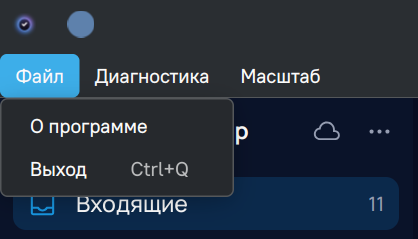
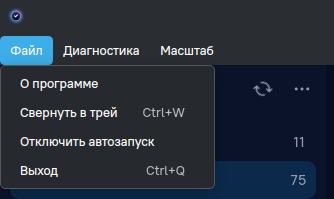
On/off autostart
Enable/disable autostart via XDG autostart spec:
- ~/.config/autostart/singularity-shell.desktop with --start-hidden
- System file /etc/xdg/autostart/singularity-shell.desktop supported
  (user override with Hidden=true to disable, deletion to enable)
- Toggle in File menu and tray context menu, label updates dynamically
- Desktop file embedded in Qt resources

Based on implementation in Morgalka.

diff --git a/singularity-shell/i18n/singularity-shell_ru.ts b/singularity-shell/i18n/singularity-shell_ru.ts
@@ -4,55 +4,54 @@
 <context>
     <name>MainWindow</name>
     <message>
-        <location filename="../src/MainWindow.cpp" line="37"/>
-        <location filename="../src/MainWindow.cpp" line="276"/>
+        <location filename="../src/MainWindow.cpp" line="44"/>
+        <location filename="../src/MainWindow.cpp" line="300"/>
         <source>Singularity</source>
         <translation>Singularity</translation>
     </message>
     <message>
-        <location filename="../src/MainWindow.cpp" line="183"/>
+        <location filename="../src/MainWindow.cpp" line="207"/>
         <source>Downloading Singularity…</source>
         <translation>Загрузка Singularity…</translation>
     </message>
     <message>
-        <location filename="../src/MainWindow.cpp" line="185"/>
+        <location filename="../src/MainWindow.cpp" line="209"/>
         <source>The application assets were not found on this system. They are being downloaded from the official Snap Store right now (one-time, ~43 MB extracted). Next launches will work fully offline.</source>
         <translation>Ресурсы приложения не найдены в системе. Они загружаются из официального Snap Store (однократно, ~43 МБ после распаковки). Последующие запуски будут работать полностью автономно.</translation>
     </message>
     <message>
-        <location filename="../src/MainWindow.cpp" line="190"/>
+        <location filename="../src/MainWindow.cpp" line="214"/>
         <source>Connecting…</source>
         <translation>Подключение…</translation>
     </message>
     <message>
-        <location filename="../src/MainWindow.cpp" line="93"/>
+        <location filename="../src/MainWindow.cpp" line="101"/>
         <source>&amp;File</source>
         <translation>&amp;Файл</translation>
     </message>
     <message>
-        <location filename="../src/MainWindow.cpp" line="96"/>
+        <location filename="../src/MainWindow.cpp" line="104"/>
         <source>&amp;Hide to tray</source>
         <translation>&amp;Свернуть в трей</translation>
     </message>
     <message>
-        <location filename="../src/MainWindow.cpp" line="94"/>
-        <location filename="../src/MainWindow.cpp" line="293"/>
+        <location filename="../src/MainWindow.cpp" line="102"/>
+        <location filename="../src/MainWindow.cpp" line="317"/>
         <source>&amp;About</source>
         <translation>&amp;О программе</translation>
     </message>
     <message>
-        <location filename="../src/MainWindow.cpp" line="101"/>
-        <location filename="../src/MainWindow.cpp" line="295"/>
+        <location filename="../src/MainWindow.cpp" line="115"/>
         <source>&amp;Quit</source>
         <translation>&amp;Выход</translation>
     </message>
     <message>
-        <location filename="../src/MainWindow.cpp" line="122"/>
+        <location filename="../src/MainWindow.cpp" line="136"/>
         <source>Clear profile data…</source>
         <translation>Очистить данные профиля…</translation>
     </message>
     <message>
-        <location filename="../src/MainWindow.cpp" line="123"/>
+        <location filename="../src/MainWindow.cpp" line="137"/>
         <source>Clear profile</source>
         <translation>Очистка профиля</translation>
     </message>
@@ -65,47 +64,47 @@ The application will restart with a fresh profile.</source>
 Приложение перезапустится с чистым профилем.</translation>
     </message>
     <message>
-        <location filename="../src/MainWindow.cpp" line="217"/>
+        <location filename="../src/MainWindow.cpp" line="241"/>
         <source>About Singularity shell</source>
         <translation>О программе Singularity shell</translation>
     </message>
     <message>
-        <location filename="../src/MainWindow.cpp" line="218"/>
+        <location filename="../src/MainWindow.cpp" line="242"/>
         <source>&lt;b&gt;Singularity shell&lt;/b&gt; %1&lt;br/&gt;Asset version: %2&lt;br/&gt;Data dir: %3&lt;br/&gt;&lt;br/&gt;Source code: &lt;a href=&apos;https://github.com/mikhailnov/singularity-shell&apos;&gt;github.com/mikhailnov/singularity-shell&lt;/a&gt;&lt;br/&gt;Contact: GitHub issues or &lt;a href=&apos;mailto:m@mikhailnov.ru&apos;&gt;m@mikhailnov.ru&lt;/a&gt;&lt;br/&gt;&lt;br/&gt;Unofficial QtWebEngine wrapper. SingularityApp itself is proprietary software by its vendor.</source>
         <translation>&lt;b&gt;Singularity shell&lt;/b&gt; %1&lt;br/&gt;Версия ресурсов: %2&lt;br/&gt;Папка данных: %3&lt;br/&gt;&lt;br/&gt;Исходный код: &lt;a href=&apos;https://github.com/mikhailnov/singularity-shell&apos;&gt;github.com/mikhailnov/singularity-shell&lt;/a&gt;&lt;br/&gt;Связь: issues на GitHub или &lt;a href=&apos;mailto:m@mikhailnov.ru&apos;&gt;m@mikhailnov.ru&lt;/a&gt;&lt;br/&gt;&lt;br/&gt;Неофициальная оболочка на QtWebEngine. Само приложение SingularityApp является проприетарным ПО его разработчика.</translation>
     </message>
     <message>
-        <location filename="../src/MainWindow.cpp" line="228"/>
+        <location filename="../src/MainWindow.cpp" line="252"/>
         <source>none (bootstrap)</source>
         <translation>нет (загрузка)</translation>
     </message>
     <message>
-        <location filename="../src/MainWindow.cpp" line="291"/>
+        <location filename="../src/MainWindow.cpp" line="315"/>
         <source>&amp;Show</source>
         <translation>&amp;Показать</translation>
     </message>
     <message>
-        <location filename="../src/MainWindow.cpp" line="291"/>
+        <location filename="../src/MainWindow.cpp" line="315"/>
         <source>&amp;Hide</source>
         <translation>&amp;Скрыть</translation>
     </message>
     <message>
-        <location filename="../src/MainWindow.cpp" line="108"/>
+        <location filename="../src/MainWindow.cpp" line="121"/>
         <source>&amp;Diagnostics</source>
         <translation>&amp;Диагностика</translation>
     </message>
     <message>
-        <location filename="../src/MainWindow.cpp" line="112"/>
+        <location filename="../src/MainWindow.cpp" line="125"/>
         <source>&amp;Developer tools</source>
         <translation>&amp;Инструменты разработчика</translation>
     </message>
     <message>
-        <location filename="../src/MainWindow.cpp" line="109"/>
+        <location filename="../src/MainWindow.cpp" line="122"/>
         <source>Force reload</source>
         <translation>Перезагрузить</translation>
     </message>
     <message>
-        <location filename="../src/MainWindow.cpp" line="124"/>
+        <location filename="../src/MainWindow.cpp" line="138"/>
         <source>This will delete all local data: cookies, session, IndexedDB, service workers, settings.
 Downloaded assets will also be removed and re-downloaded from the Snap Store on next launch.
 
@@ -116,52 +115,69 @@ The application will restart with a fresh profile.</source>
 Приложение перезапустится с чистым профилем.</translation>
     </message>
     <message>
-        <location filename="../src/MainWindow.cpp" line="138"/>
+        <location filename="../src/MainWindow.cpp" line="154"/>
         <source>&amp;Zoom</source>
         <translation>&amp;Масштаб</translation>
     </message>
     <message>
-        <location filename="../src/MainWindow.cpp" line="139"/>
+        <location filename="../src/MainWindow.cpp" line="155"/>
         <source>100 %</source>
         <translation>100 %</translation>
     </message>
     <message>
-        <location filename="../src/MainWindow.cpp" line="145"/>
+        <location filename="../src/MainWindow.cpp" line="161"/>
         <source>Zoom &amp;In</source>
         <translation>Увеличить</translation>
     </message>
     <message>
-        <location filename="../src/MainWindow.cpp" line="146"/>
+        <location filename="../src/MainWindow.cpp" line="162"/>
         <source>Zoom &amp;Out</source>
         <translation>Уменьшить</translation>
     </message>
     <message>
-        <location filename="../src/MainWindow.cpp" line="147"/>
+        <location filename="../src/MainWindow.cpp" line="163"/>
         <source>&amp;Reset</source>
         <translation>&amp;Сбросить</translation>
     </message>
     <message>
-        <location filename="../src/main.cpp" line="257"/>
+        <location filename="../src/MainWindow.cpp" line="323"/>
+        <location filename="../src/MainWindow.cpp" line="422"/>
+        <source>Disable autostart</source>
+        <translation>Отключить автозапуск</translation>
+    </message>
+    <message>
+        <location filename="../src/MainWindow.cpp" line="422"/>
+        <source>Enable autostart</source>
+        <translation>Включить автозапуск</translation>
+    </message>
+    <message>
+        <location filename="../src/MainWindow.cpp" line="323"/>
+        <location filename="../src/MainWindow.cpp" line="422"/>
+        <source>Enable autostart</source>
+        <translation type="unfinished"></translation>
+    </message>
+    <message>
+        <location filename="../src/main.cpp" line="271"/>
         <source>Downloading update %1…</source>
         <translation>Загрузка обновления %1…</translation>
     </message>
     <message>
-        <location filename="../src/main.cpp" line="258"/>
+        <location filename="../src/main.cpp" line="272"/>
         <source>Verifying update %1…</source>
         <translation>Проверка обновления %1…</translation>
     </message>
     <message>
-        <location filename="../src/main.cpp" line="259"/>
+        <location filename="../src/main.cpp" line="273"/>
         <source>Update %1 ready — active on next start</source>
         <translation>Обновление %1 готово — применится при следующем запуске</translation>
     </message>
     <message>
-        <location filename="../src/main.cpp" line="268"/>
+        <location filename="../src/main.cpp" line="282"/>
         <source>Downloading update… %1%</source>
         <translation>Загрузка обновления… %1%</translation>
     </message>
     <message>
-        <location filename="../src/main.cpp" line="276"/>
+        <location filename="../src/main.cpp" line="290"/>
         <source>Version %1 installed — starting…</source>
         <translation>Версия %1 установлена — запуск…</translation>
     </message>

diff --git a/singularity-shell/src/MainWindow.cpp b/singularity-shell/src/MainWindow.cpp
@@ -13,6 +13,9 @@
 #include <QColor>
 #include <QDesktopServices>
 #include <QJsonDocument>
+#include <QDir>
+#include <QFile>
+
 #include <QKeyEvent>
 #include <QLabel>
 #include <QProcess>
@@ -103,6 +106,12 @@ void MainWindow::buildMenus()
         suspendWebEngine();
     });
     hideAction->setShortcut(QKeySequence(QStringLiteral("Ctrl+W")));
+    m_autostartAction = appMenu->addAction(QString(), this, [this] {
+        setAutostart(!isAutostartEnabled());
+    });
+    connect(appMenu, &QMenu::aboutToShow, this, [this] {
+        updateAutostartAction();
+    });
     m_quitAction = appMenu->addAction(tr("&Quit"), this, [this] {
         if (m_tray)
             m_tray->hide();
@@ -307,6 +316,13 @@ void MainWindow::setupTray()
         showAction->setText(isVisible() ? tr("&Hide") : tr("&Show"));
     });
     menu->addAction(tr("&About"), this, &MainWindow::showAbout);
+    QAction* trayAutostart = menu->addAction(QString(), this, [this] {
+        setAutostart(!isAutostartEnabled());
+    });
+    connect(menu, &QMenu::aboutToShow, this, [this, trayAutostart] {
+        trayAutostart->setText(isAutostartEnabled()
+            ? tr("Disable autostart") : tr("Enable autostart"));
+    });
     menu->addSeparator();
     menu->addAction(tr("&Quit"), qApp, &QApplication::quit);
     m_tray->setContextMenu(menu);
@@ -356,4 +372,55 @@ void MainWindow::resumeWebEngine()
 #if QT_VERSION >= QT_VERSION_CHECK(6, 4, 0)
     m_page->setLifecycleState(QWebEnginePage::LifecycleState::Active);
 #endif
+}
+
+// --- Autostart (XDG autostart spec) ------------------------------------------
+
+bool MainWindow::isAutostartEnabled() const
+{
+    const QString userFile = QStandardPaths::writableLocation(
+        QStandardPaths::ConfigLocation) + QStringLiteral("/autostart/singularity-shell.desktop");
+    const QString systemFile = QStringLiteral(SINGULARITY_SHELL_SYSTEM_AUTOSTART);
+
+    if (QFile::exists(userFile)) {
+        QFile f(userFile);
+        if (f.open(QIODevice::ReadOnly | QIODevice::Text))
+            return !f.readAll().contains("Hidden=true");
+        return true;  // can't read — assume enabled
+    }
+    return QFile::exists(systemFile);
+}
+
+void MainWindow::setAutostart(bool enable)
+{
+    const QString autostartDir = QStandardPaths::writableLocation(
+        QStandardPaths::ConfigLocation) + QStringLiteral("/autostart");
+    const QString userFile = autostartDir + QStringLiteral("/singularity-shell.desktop");
+    const QString systemFile = QStringLiteral(SINGULARITY_SHELL_SYSTEM_AUTOSTART);
+
+    QDir().mkpath(autostartDir);
+
+    if (enable) {
+        if (QFile::exists(systemFile)) {
+            QFile::remove(userFile);  // let system file take over
+        } else {
+            QFile::remove(userFile);
+            QFile::copy(QStringLiteral(":/autostart.desktop"), userFile);
+        }
+    } else {
+        QFile::remove(userFile);
+        if (QFile::exists(systemFile)) {
+            QFile f(userFile);
+            if (f.open(QIODevice::WriteOnly | QIODevice::Text | QIODevice::Truncate))
+                f.write("[Desktop Entry]\nHidden=true\n");
+        }
+    }
+}
+
+void MainWindow::updateAutostartAction()
+{
+    if (m_autostartAction) {
+        m_autostartAction->setText(isAutostartEnabled()
+            ? tr("Disable autostart") : tr("Enable autostart"));
+    }
 }

diff --git a/singularity-shell/src/MainWindow.h b/singularity-shell/src/MainWindow.h
@@ -42,6 +42,9 @@ private:
     void setupTray();
     void suspendWebEngine();
     void resumeWebEngine();
+    bool isAutostartEnabled() const;
+    void setAutostart(bool enable);
+    void updateAutostartAction();
 
     QWebEngineView* m_view = nullptr;
     NavigationPage* m_page = nullptr;
@@ -50,6 +53,7 @@ private:
     QLabel* m_updateStatus = nullptr;
     QSystemTrayIcon* m_tray = nullptr;
     QAction* m_quitAction = nullptr;
+    QAction* m_autostartAction = nullptr;
     bool m_startHidden = false;
     QString m_assetVersion;
 };

diff --git a/README.en.md b/README.en.md
@@ -24,6 +24,11 @@ When hidden to tray, JavaScript execution is frozen — **~0% CPU** load, instan
 
 ![tray](docs/img-ru/tray.png)
 
+You can enable **autostart** — the app will launch frozen in the tray, ready
+to use instantly with a click on the tray icon, without consuming CPU.
+The official client [lacks autostart](https://singularity-app.ru/backlog/118494/) on all
+operating systems — here it works on Linux.
+
 ## Installation
 
 ### ROSA Linux, MOS/MosTech.OS
@@ -281,6 +286,18 @@ instant restore.
 
 On GNOME without a tray extension the app falls back to normal quit
 behavior.
+
+#### 12. XDG autostart integration
+
+The **Enable/Disable autostart** toggle in the File menu and tray menu
+manages a desktop file at `~/.config/autostart/singularity-shell.desktop`
+per the XDG autostart spec.  When enabled and no system-wide file exists
+(`/etc/xdg/autostart/singularity-shell.desktop`), the app copies its
+built-in desktop file (with `Exec=singularity-shell --start-hidden`) into
+the user's autostart directory.  When disabled, the user file is removed,
+or if a system file exists, overridden with `Hidden=true`.
+
+The toggle reads the actual file state — no separate config key needed.
 
 ## Features
 
